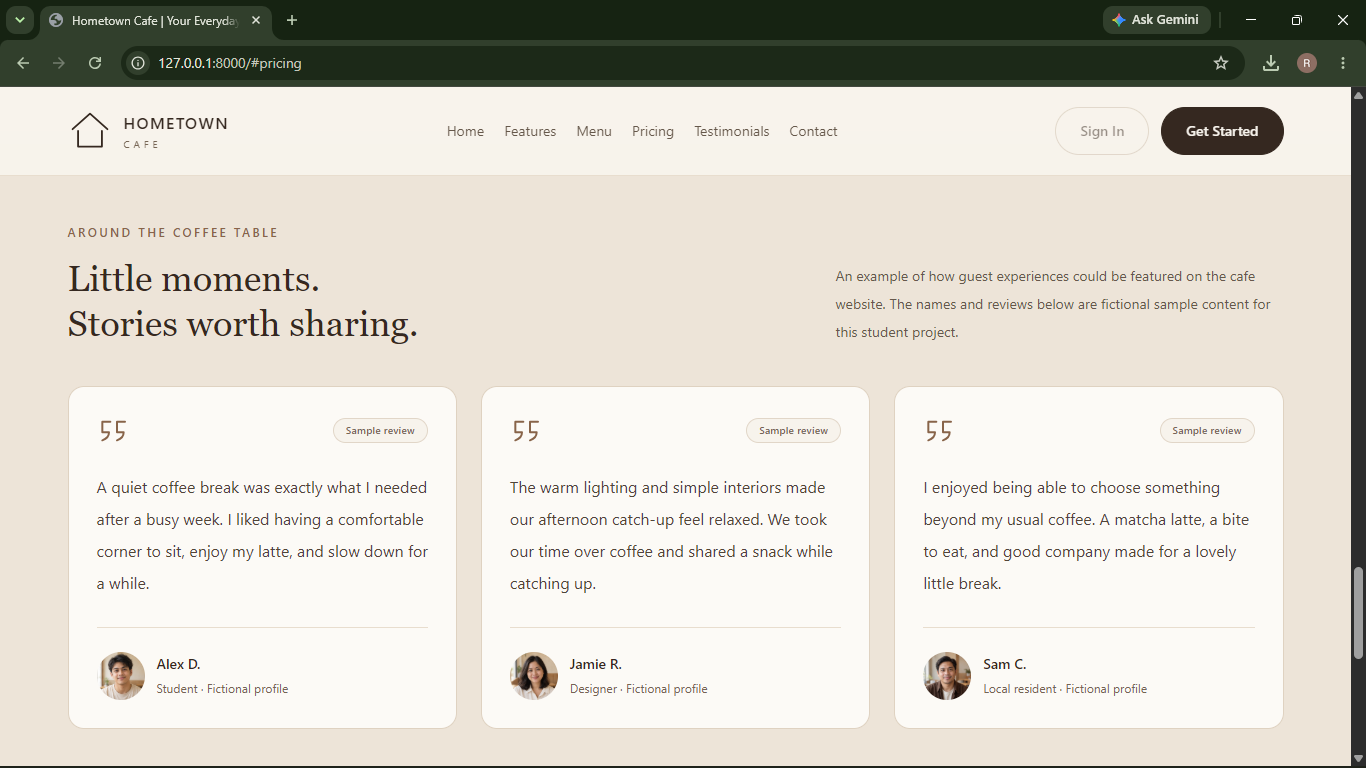
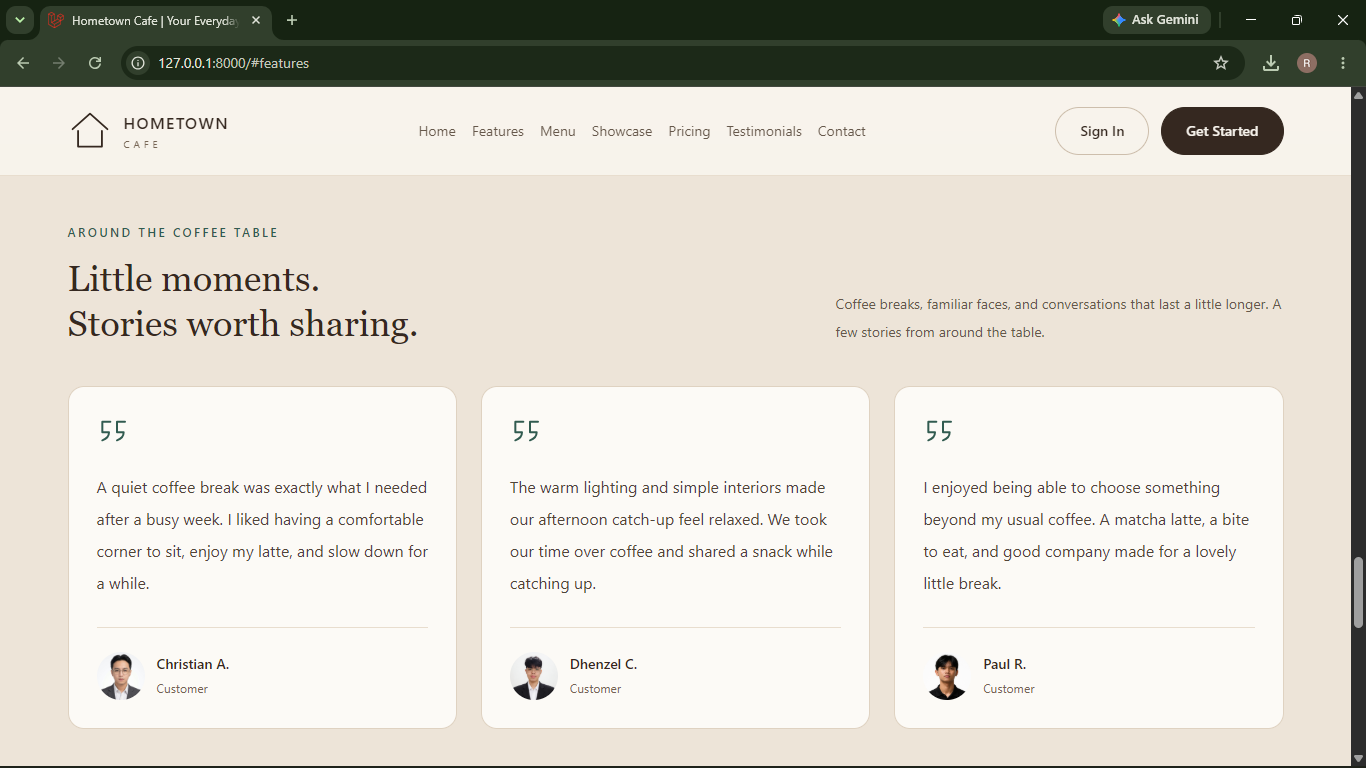
changed testimonials

diff --git a/resources/views/components/testimonials.blade.php b/resources/views/components/testimonials.blade.php
@@ -30,7 +30,7 @@
                 name="Christian A."
                 position="Customer"
                 initials="CA"
-                photo="images/customer-cj.png"
+                photo="images/customer-cj.jpg"
                 review="A quiet coffee break was exactly what I needed after a busy week. I liked having a comfortable corner to sit, enjoy my latte, and slow down for a while."
             />
 
